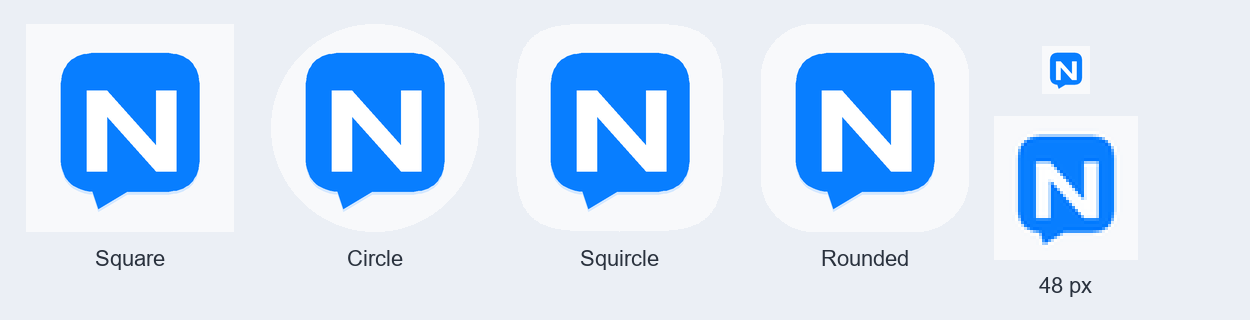
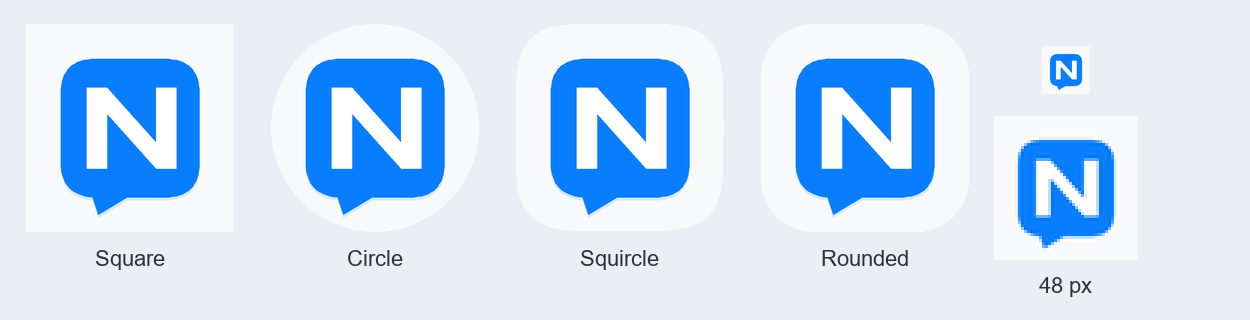
Center V8 launcher mark within adaptive masks

diff --git a/tools/generate_launcher_icons.py b/tools/generate_launcher_icons.py
@@ -22,12 +22,12 @@ LEGACY_SIZES = {"mdpi": 48, "hdpi": 72, "xhdpi": 96, "xxhdpi": 144, "xxxhdpi": 1
 
 # The mark, including its tail, stays inside the center 66 dp diameter circle.
 BUBBLE_PATH = (
-    "M42,28 H66 Q78,28 78,40 V64 Q78,76 66,76 "
-    "H53 L43,82 L41,76 Q30,75 30,64 V40 Q30,28 42,28 Z"
+    "M42,30 H66 Q78,30 78,42 V66 Q78,78 66,78 "
+    "H53 L43,84 L41,78 Q30,77 30,66 V42 Q30,30 42,30 Z"
 )
-N_PATH = "M39,41 H46 L63,60 V41 H70 V69 H63 L46,50 V69 H39 Z"
-N_POINTS = [(39, 41), (46, 41), (63, 60), (63, 41), (70, 41),
-            (70, 69), (63, 69), (46, 50), (46, 69), (39, 69)]
+N_PATH = "M39,40 H46 L63,59 V40 H70 V68 H63 L46,49 V68 H39 Z"
+N_POINTS = [(39, 40), (46, 40), (63, 59), (63, 40), (70, 40),
+            (70, 68), (63, 68), (46, 49), (46, 68), (39, 68)]
 
 
 def bubble_points(dy: float = 0.0) -> list[tuple[float, float]]:
@@ -43,17 +43,17 @@ def bubble_points(dy: float = 0.0) -> list[tuple[float, float]]:
             line(one * one * start[0] + 2 * one * t * control[0] + t * t * end[0],
                  one * one * start[1] + 2 * one * t * control[1] + t * t * end[1])
 
-    line(42, 28)
-    line(66, 28)
-    quad((66, 28), (78, 28), (78, 40))
-    line(78, 64)
-    quad((78, 64), (78, 76), (66, 76))
-    line(53, 76)
-    line(43, 82)
-    line(41, 76)
-    quad((41, 76), (30, 75), (30, 64))
-    line(30, 40)
-    quad((30, 40), (30, 28), (42, 28))
+    line(42, 30)
+    line(66, 30)
+    quad((66, 30), (78, 30), (78, 42))
+    line(78, 66)
+    quad((78, 66), (78, 78), (66, 78))
+    line(53, 78)
+    line(43, 84)
+    line(41, 78)
+    quad((41, 78), (30, 77), (30, 66))
+    line(30, 42)
+    quad((30, 42), (30, 30), (42, 30))
     return points
 
 
@@ -171,6 +171,16 @@ def write_preview() -> None:
     directory = ROOT / "design" / "icon-concepts"
     directory.mkdir(parents=True, exist_ok=True)
     preview.save(directory / "v8-blue-preview.png", optimize=True)
+    before_path = directory / "v8-blue-preview-before.png"
+    if before_path.exists():
+        before = Image.open(before_path).convert("RGB")
+        comparison = Image.new("RGB", (2500, 362), "#EBEFF5")
+        comparison_draw = ImageDraw.Draw(comparison)
+        comparison_draw.text((625, 8), "Before", fill="#29313D", font=font, anchor="mt")
+        comparison_draw.text((1875, 8), "Centered", fill="#29313D", font=font, anchor="mt")
+        comparison.paste(before, (0, 42))
+        comparison.paste(preview, (1250, 42))
+        comparison.save(directory / "v8-blue-centering-comparison.png", optimize=True)
 
 
 def main() -> None:
